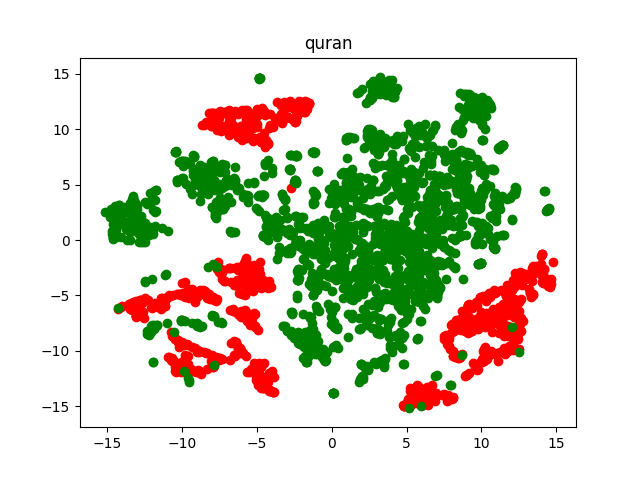
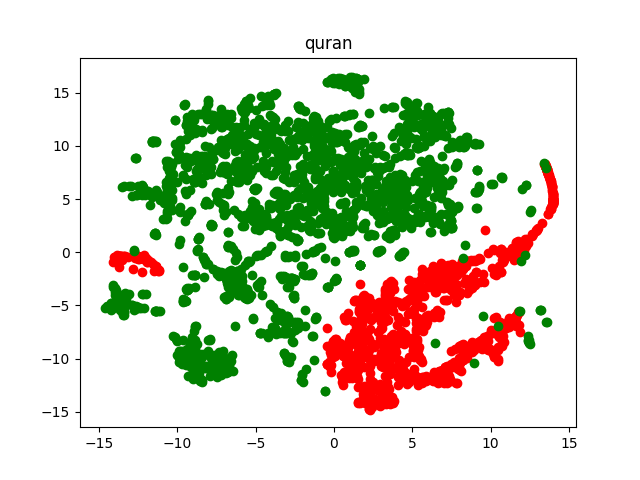
up to date experiment

diff --git a/kalign.py b/kalign.py
@@ -20,11 +20,24 @@ def gen_aligned(file_path, n=float("inf")):
 			vecs.append(np.array(map(float, vec[1:])))
 	return words, np.stack(vecs, axis=0)
 
+def annotate(image, words, n=float("inf")):
+	for i, (label, x, y) in enumerate(zip(words, image[:, 0], image[:, 1])):
+		if i == n: break
+		plt.annotate(
+			label,
+			xy=(x, y), # xytext=(-20, 20),
+			# textcoords='offset points', ha='right', va='bottom',
+			# bbox=dict(boxstyle='round,pad=0.5', fc='black', alpha=0.5),
+			# arrowprops=dict(arrowstyle = '->', connectionstyle='arc3,rad=0')
+		)
+
 load_aligned = lambda file_path: list(gen_aligned(file_path))		
 
 parser = argparse.ArgumentParser(description='Build vectors for documents.')
 parser.add_argument("--text", type=str, default=None)
 parser.add_argument("--format", type=str, default="bin")
+parser.add_argument("--metric", type=str, default="cosine")
+parser.add_argument("--label", type=bool, default=True)
 args = parser.parse_args()
 
 native = "models/{}.{}".format(args.text, args.format)
@@ -55,8 +68,8 @@ print "Saved alignment to", filename
 
 embed = np.concatenate([embed_vy, embed_la], axis=0)
 
-print "Doing TSNE"
-tsne = TSNE(n_components=2)
+print "Doing TSNE.."
+tsne = TSNE(n_components=2, metric=args.metric)
 image = tsne.fit_transform(embed)
 image_vy = image[:len(embed_vy),:]
 image_la = image[len(embed_vy):,:]
@@ -67,5 +80,10 @@ plt.title(args.text)
 
 filename = "images/{}.png".format(args.text)
 plt.savefig(filename)
+
+if args.label:
+	annotate(image_vy, words_vy, n=50)
+	annotate(image_la, words_la)
+
 print "Saved TSNE image to", filename
 plt.show()
